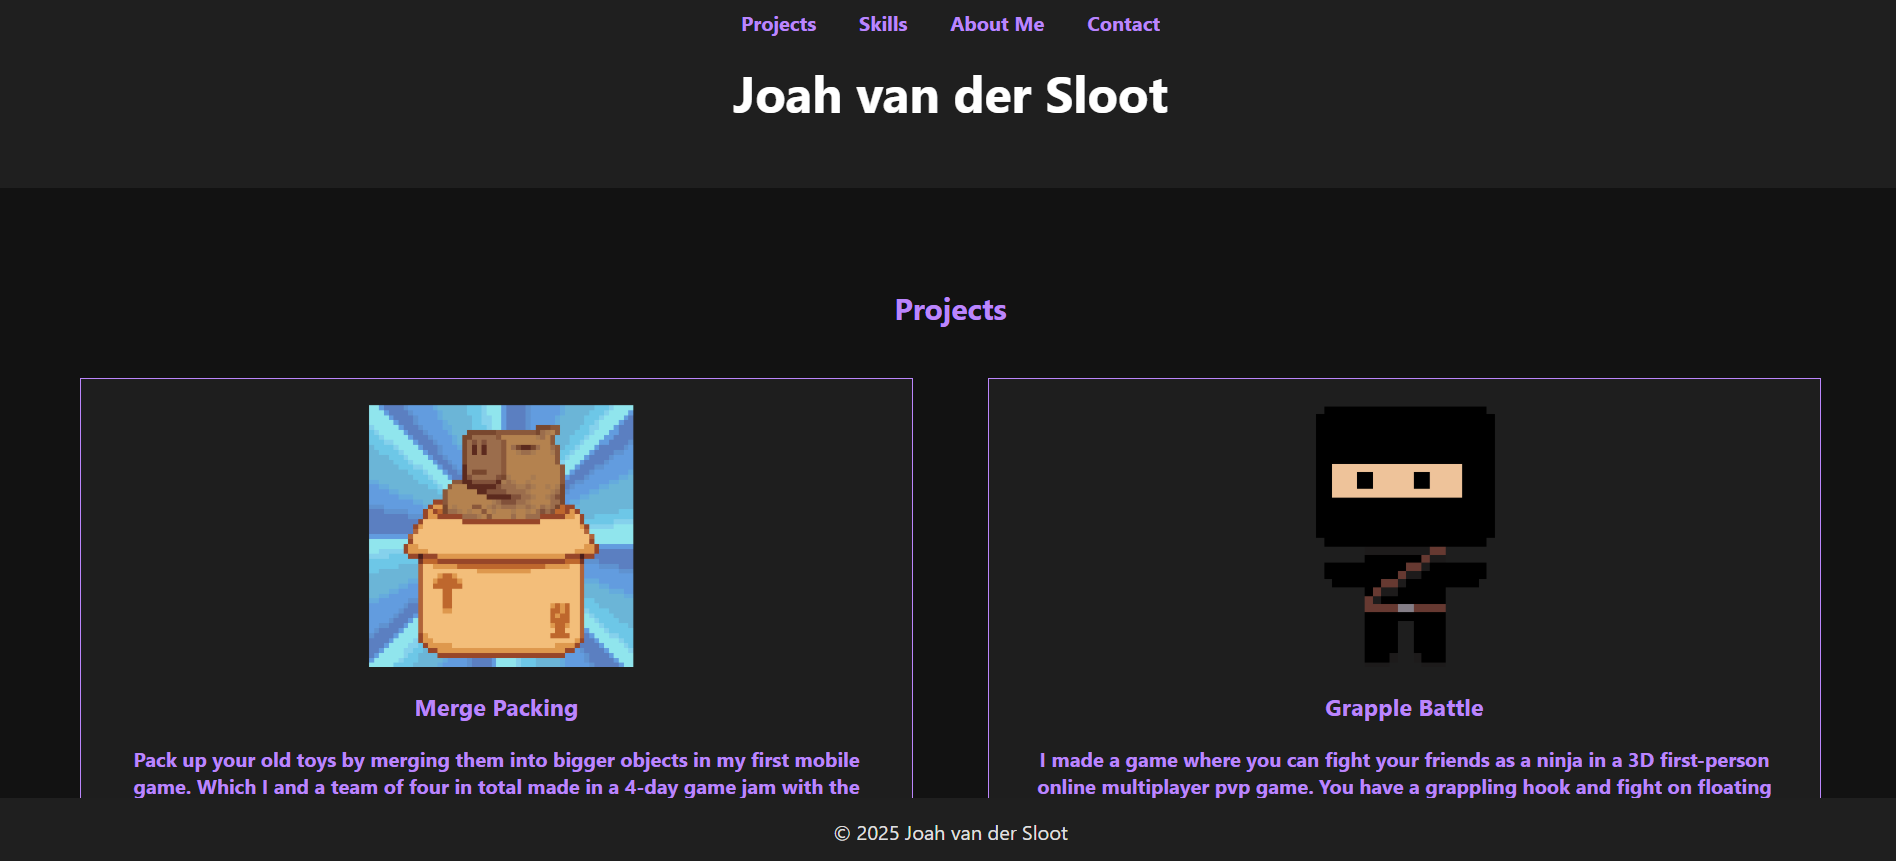
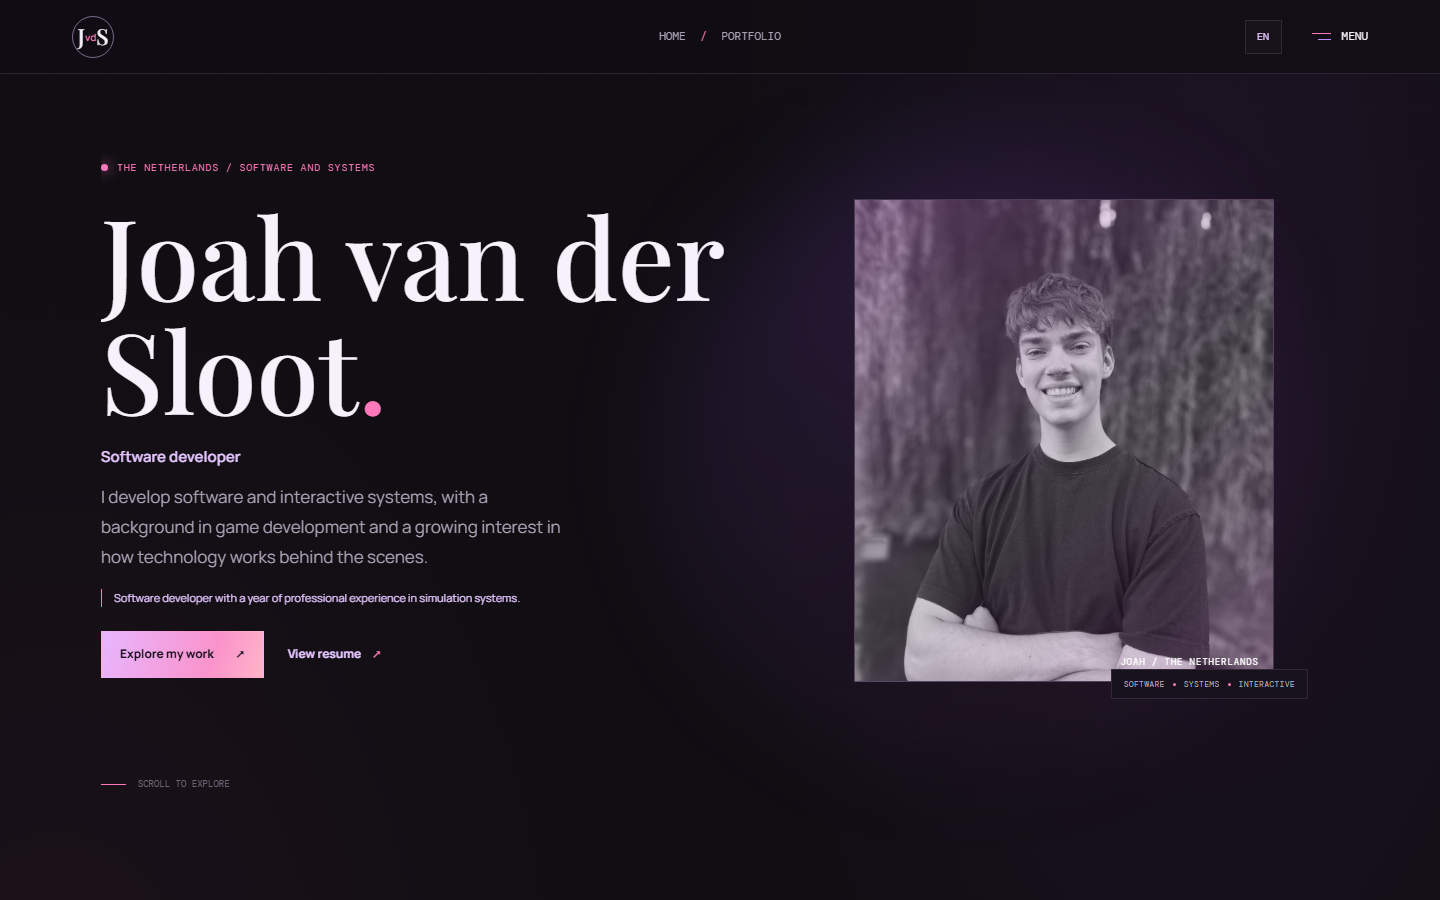
portfolio proj page update

diff --git a/assets/js/portfolio.js b/assets/js/portfolio.js
@@ -65,7 +65,7 @@
         const projectTags = project.tags.length ? `<div class="project-card-tags">${tagList(project.tags)}</div>` : "";
         return `<article class="project-card reveal" style="--delay:${Math.min(index, 8) * 55}ms">
             <a class="project-card-link" href="${escapeHTML(projectLink(project))}" aria-label="${escapeHTML(localized(project, "title"))} / ${escapeHTML(translate("project"))}">
-                <div class="project-card-image">${project.image ? `<img src="${escapeHTML(asset(project.image))}" alt="${escapeHTML(localized(project, "imageAlt"))}" loading="lazy">` : `<span class="project-card-placeholder">${escapeHTML(localized(project, "coverLabel") || localized(project, "title"))}</span>`}<span class="project-year">${escapeHTML(project.year)}</span></div>
+                <div class="project-card-image">${project.image ? `<img src="${escapeHTML(asset(project.image))}" alt="${escapeHTML(localized(project, "imageAlt"))}"${project.pixelCover ? ' class="pixel-art"' : ""} loading="lazy">` : `<span class="project-card-placeholder">${escapeHTML(localized(project, "coverLabel") || localized(project, "title"))}</span>`}<span class="project-year">${escapeHTML(project.year)}</span></div>
                 <div class="project-card-content"><div class="eyebrow">${escapeHTML(categoryLabel(localized(project, "category")))} / ${escapeHTML(localized(project, "date"))}</div><h3>${escapeHTML(localized(project, "title"))}</h3><p>${escapeHTML(localized(project, "summary"))}</p></div>
             </a>${projectTags}
         </article>`;
@@ -165,7 +165,7 @@
         const video = project.video ? `<video class="project-video-element" controls preload="metadata"><source src="${escapeHTML(project.video)}" type="video/mp4"></video>` : project.youtube && window.location.protocol === "file:" ? `<a class="video-fallback" href="${escapeHTML(youtubeLink)}" target="_blank" rel="noreferrer"><img src="${escapeHTML(project.image)}" alt=""><span><strong>${escapeHTML(translate("watchVideo"))}</strong><small>${escapeHTML(translate("openYoutube"))} <b aria-hidden="true">↗</b></small></span></a>` : project.youtube ? `<div class="video-frame"><iframe src="${escapeHTML(project.youtube)}" title="${escapeHTML(title)}" loading="lazy" allow="accelerometer; autoplay; encrypted-media; gyroscope; picture-in-picture" allowfullscreen></iframe></div>` : "";
         const playable = project.embed ? `<section class="detail-section media-section"><details class="playable-details"><summary><span><span class="eyebrow">${escapeHTML(translate("playableBuild"))}</span><strong>${escapeHTML(translate("openPlayable"))}</strong></span><span class="play-toggle" aria-hidden="true">+</span></summary><p>${escapeHTML(translate("optionalEmbed"))}</p><div class="playable-frame"><iframe src="${escapeHTML(project.embed)}" title="${escapeHTML(title)}" loading="lazy" allowfullscreen></iframe></div></details></section>` : "";
         const links = [[translate("play"), project.itch], [translate("source"), project.github]].filter(([, url]) => url).map(([label, url]) => `<a class="button button-secondary" href="${escapeHTML(url)}" target="_blank" rel="noreferrer">${escapeHTML(label)} <span aria-hidden="true">↗</span></a>`).join("");
-        const cover = project.image ? imageButton(project.image, localized(project, "imageAlt"), title, "detail-cover-image") : `<span class="detail-cover-placeholder">${escapeHTML(localized(project, "coverLabel") || title)}</span>`;
+        const cover = project.image ? imageButton(project.image, localized(project, "imageAlt"), title, project.pixelCover ? "detail-cover-image pixel-art" : "detail-cover-image") : `<span class="detail-cover-placeholder">${escapeHTML(localized(project, "coverLabel") || title)}</span>`;
         const showcaseSection = media ? `<section class="detail-section showcase-section"><div class="section-heading"><div><p class="eyebrow">${escapeHTML(translate("selectedDetails"))}</p><h2>${escapeHTML(translate("builtThenPlayed"))}</h2></div><p>${escapeHTML(translate("codeAndMedia"))}</p></div><div class="showcase-grid">${media}</div></section>` : "";
         return `<main class="page-content detail-page"><a class="back-link" href="allProjects.html"><span aria-hidden="true">←</span> ${escapeHTML(translate("backToProjects"))}</a><header class="detail-hero"><div class="detail-hero-copy"><p class="eyebrow">${escapeHTML(categoryLabel(localized(project, "category")))} / ${escapeHTML(localized(project, "date"))}</p><h1>${escapeHTML(title)}<span class="hero-period">.</span></h1><p class="detail-summary">${escapeHTML(localized(project, "summary"))}</p><div class="detail-actions">${links}</div></div><div class="detail-cover">${cover}</div></header><div class="detail-meta">${project.tools.length ? `<div><span>${escapeHTML(translate("builtWith"))}</span><strong>${project.tools.map(escapeHTML).join(" / ")}</strong></div>` : ""}<div><span>${escapeHTML(translate("projectFormat"))}</span><strong>${escapeHTML(localized(project, "duration"))}</strong></div><div><span>${escapeHTML(translate("released"))}</span><strong>${escapeHTML(localized(project, "date"))}</strong></div></div><section class="detail-section overview-grid"><div><p class="eyebrow">${escapeHTML(translate("projectAbout"))}</p><h2>${escapeHTML(translate("insideProject"))}</h2></div><div><p>${escapeHTML(localized(project, "description"))}</p><p>${escapeHTML(localized(project, "contribution"))}</p>${project.tags.length ? `<h3>${escapeHTML(translate("skillsInProject"))}</h3>${tagList(project.tags)}` : ""}</div></section>${video ? `<section class="detail-section media-section"><div class="section-heading"><div><p class="eyebrow">${escapeHTML(translate("inMotion"))}</p><h2>${escapeHTML(translate("seeItPlay"))}</h2></div></div>${video}</section>` : ""}${playable}${showcaseSection}${gallery.length ? `<section class="detail-section gallery-section"><div class="section-heading"><div><p class="eyebrow">${escapeHTML(translate("moreMoments"))}</p><h2>${escapeHTML(translate("fromTheBuild"))}</h2></div></div><div class="screenshot-grid">${gallery.map((src, index) => imageButton(src, `${title} ${index + 1}`, `${title} ${index + 1}`, "screenshot-trigger")).join("")}</div></section>` : ""}<nav class="project-next" aria-label="${escapeHTML(translate("projects"))}"><a href="allProjects.html"><span>${escapeHTML(translate("browseArchive"))}</span><strong>${escapeHTML(translate("moreProjects"))} <span aria-hidden="true">↗</span></strong></a></nav></main>`;
     }

diff --git a/assets/js/portfolio-nl.js b/assets/js/portfolio-nl.js
@@ -158,7 +158,7 @@ window.PORTFOLIO_NL = {
         "space-fighter": { summary: "Een space-shooter met steeds moeilijkere golven en eindbazen.", description: "Vecht tegen ruimteschepen, verzamel punten en upgrades en overleef steeds moeilijkere golven. Elke vijfde golf verschijnt een eindbaas.", contribution: "Een soloproject van vier weken. Ik bouwde het spel en het scorebord; ik ben vooral tevreden over het opslaan en rangschikken van scores.", duration: "4 weken, solo", date: "25 oktober 2024", imageAlt: "Ruimteschip en vijanden in Space Fighter", category: "Game", showcase: [{ title: "Rangschik scores van hoog naar laag" }, { alt: "Gevecht in Space Fighter", caption: "Golven bepalen hoe snel de moeilijkheid oploopt." }, { title: "Toon alleen de hoogste scores" }, { alt: "Eindbaas in Space Fighter", caption: "Elke vijfde golf brengt een eindbaasgevecht." }] },
         "wa-lch": { summary: "Een twin-stick-shooter over een schoonmaakrobot die een verlaten lab verdedigt.", description: "Ruim radioactief afval op, start stroomgeneratoren opnieuw en verdedig je tegen vijandige robots in een verlaten laboratorium. Het team behaalde de tweede plaats in een competitie.", contribution: "Ik maakte vijanden, pickups, schoonmaakmechanieken, interface, menu's, interactieve delen van de map en geluidseffecten. Ook hielp ik met functies voor de speler.", duration: "4 weken, team van 5", date: "27 juni 2024", imageAlt: "Schoonmaakrobot uit WA-LCH", category: "Game", showcase: [{ title: "Wissel vijandgedrag op basis van de speler" }, { alt: "Gameplay van WA-LCH", caption: "Vijanden reageren wanneer de speler begint met schoonmaken." }] },
         slipstream: { summary: "First-person cyberpunk-parkour met een drone op je hielen.", description: "Ren door twee levels op tijd, verzamel checkpoints en blijf uit handen van een achtervolgende drone. Gemaakt tijdens een internationale studentenuitwisseling met een Finse school.", contribution: "Ik maakte de drone, gamemanager, menu's, interface, instellingen en het opslaan en laden ervan, plus het tutoriallevel. Ook bouwde ik een instelbaar vizier.", duration: "5 weken, internationaal team van 5", date: "1 juli 2025", imageAlt: "Cyberpunklevel van Slipstream", category: "Game", showcase: [{ title: "Een klik koppelen aan een kleurtextuur" }, { alt: "Parkourroute in Slipstream", caption: "De route combineert snelheid met checkpoints." }, { title: "Vizierinstellingen toepassen" }, { alt: "Cyberpunkomgeving in Slipstream", caption: "De drone houdt de druk erop tijdens elke run." }] },
-        portfolio: { summary: "Mijn portfolio: mijn eerste webproject, dat ik blijf verbeteren.", description: "De eerste versie maakte ik in mei 2024. Sindsdien werk ik de website bij wanneer ik nieuwe projecten maak en nieuwe webvaardigheden leer.", contribution: "Ik ontwierp en bouwde de website, projectpagina's en gedeelde vormgeving. Deze versie haalt herhaalde inhoud naar bewerkbare project- en vaardigheidsgegevens.", duration: "Doorlopend soloproject", date: "3 mei 2024", imageAlt: "Homepage van de portfolio-website", category: "Web", showcase: [{ title: "Projecten vanuit gegevens tonen" }, { alt: "Portfolio-homepage", caption: "De website toont projecten en vaardigheden uit gedeelde gegevens." }] },
+        portfolio: { summary: "Mijn portfolio: mijn eerste webproject, dat ik blijf verbeteren.", description: "De eerste versie maakte ik in mei 2024. Sindsdien werk ik de website bij wanneer ik nieuwe projecten maak en nieuwe webvaardigheden leer. Inmiddels draait hij zonder framework: één gedeeld script bouwt elke pagina in het Nederlands en Engels op uit gewone JavaScript-gegevensbestanden.", contribution: "Ik ontwierp en bouwde de website, projectpagina's en gedeelde vormgeving. Elk project is een eigen gegevensbestand met een eigen afbeeldingenmap, dus voor een nieuw project is geen nieuwe HTML-pagina nodig. De website heeft ook een afbeeldingenviewer en een downloadbaar pdf-cv.", duration: "Doorlopend soloproject", date: "3 mei 2024", imageAlt: "Homepage van de portfolio-website", category: "Web", showcase: [{ title: "Laad elk project uit een eigen bestand" }, { alt: "Homepage van de portfolio", caption: "De homepage toont projecten, vaardigheden en wie ik ben." }, { title: "Val terug op Engels als een vertaling ontbreekt" }, { alt: "Projectarchief van de portfolio", caption: "Het projectarchief wordt opgebouwd uit de projectbestanden." }, { title: "Code links, afbeeldingen rechts" }, { alt: "Projectpagina met code en screenshots naast elkaar", caption: "Projectpagina's koppelen elk codevoorbeeld aan een screenshot." }, { title: "Rij voor rij de showcase indelen" }, { alt: "Vaardighedenpagina van de portfolio", caption: "Vaardigheden verwijzen terug naar de projecten die ze gebruiken." }] },
         "glory-ranking-website": { title: "GLORY Kickboksranglijst", coverLabel: "GLORY / RANGLIJST", summary: "De webversie van mijn GLORY-kickboksranglijstsysteem.", description: "De huidige websiteversie van mijn GLORY-kickboksranglijstsysteem, na een eerdere app-prototypeversie.", contribution: "Persoonlijk project waarin ik onderzoek hoe de ranglijst op het web kan worden getoond en gebruikt.", duration: "Persoonlijk project", date: "In ontwikkeling", category: "Web" },
         "glory-ranking-app": { title: "Kickboxing Ranking Prototype", coverLabel: "GLORY / APP", summary: "De eerste app-versie van mijn GLORY-kickboksranglijstsysteem.", description: "Een vroeg applicatieprototype voor hetzelfde ranglijstsysteem dat nu als website wordt ontwikkeld.", contribution: "Persoonlijk project. Deze eerste versie legde de basis voor de ranglijst als app.", duration: "Eerste versie", date: "Projectversie 1", category: "Software" },
         "factsheets-generator": { summary: "Een factsheetgenerator die ik tijdens mijn stage bij SimCen Land ontwikkelde.", description: "Factsheets Generator is een van de softwareprojecten waaraan ik werkte tijdens mijn stage softwareontwikkeling bij SimCen Land.", contribution: "Ontwikkeld als onderdeel van mijn stagewerk. Verdere technische details staan hier niet vermeld.", duration: "Stageproject", date: "2025–2026", category: "Software" },

diff --git a/assets/js/projects/portfolio.js b/assets/js/projects/portfolio.js
@@ -1,8 +1,14 @@
 (window.PORTFOLIO_PROJECTS ||= []).push({
     id: "portfolio", page: "project9.html", title: "Portfolio", category: "Web", year: "2024-26", image: "assets/images/projects/portfolio/screenshot-1.png",
-    summary: "My portfolio site: the first web project I built and keep improving.", description: "The first draft was made in May 2024. I have kept updating it alongside new projects and the web skills I have learned.", contribution: "I designed and built the site, its project pages, and the shared styling. This refresh turns the repeated content into editable project and skill records.", tools: ["HTML", "CSS", "JavaScript"], tags: ["html", "css", "javascript", "git", "creative-thinking"], duration: "Ongoing solo project", date: "3 May 2024", imageAlt: "Portfolio website preview", screenshots: ["assets/images/projects/portfolio/screenshot-1.png", "assets/images/projects/portfolio/screenshot-2.png", "assets/images/projects/portfolio/screenshot-3.png"], github: "https://github.com/JoahvanderSloot/Portfolio",
+    summary: "My portfolio site: the first web project I built and keep improving.", description: "The first draft was made in May 2024. I have kept updating it alongside new projects and the web skills I have learned. It now runs without a framework: one shared script renders every page in English and Dutch from plain JavaScript data files.", contribution: "I designed and built the site, its project pages, and the shared styling. Each project is its own data file with its own image folder, so adding a project does not require a new HTML page. The site also includes an image lightbox and a downloadable PDF resume.", tools: ["HTML", "CSS", "JavaScript"], tags: ["html", "css", "javascript", "git", "creative-thinking"], duration: "Ongoing solo project", date: "3 May 2024", imageAlt: "Portfolio website home page", screenshots: ["assets/images/projects/portfolio/screenshot-1.png", "assets/images/projects/portfolio/screenshot-2.png", "assets/images/projects/portfolio/screenshot-3.png", "assets/images/projects/portfolio/screenshot-4.png", "assets/images/projects/portfolio/screenshot-5.png"], github: "https://github.com/JoahvanderSloot/Portfolio",
     showcase: [
-        { type: "code", title: "Render projects from content data", language: "javascript", code: "const projectCards = projects.map((project) => `\n  <article class=\"project-card\">\n    <img src=\"${project.image}\" alt=\"${project.imageAlt}\">\n    <h3>${project.title}</h3>\n    <p>${project.summary}</p>\n  </article>\n`);" },
-        { type: "image", src: "assets/images/projects/portfolio/screenshot-1.png", alt: "Portfolio homepage", caption: "The site presents projects and skills from shared data." }
+        { type: "code", title: "Load every project from its own file", language: "javascript", source: "https://github.com/JoahvanderSloot/Portfolio/blob/main/assets/js/portfolio.js", code: "await Promise.all(data.projectIds.map((id) => new Promise((resolve, reject) => {\n    const script = document.createElement(\"script\");\n    script.src = `assets/js/projects/${id}.js`;\n    script.onload = resolve;\n    script.onerror = () => reject(new Error(`Missing project file: ${id}`));\n    document.head.append(script);\n})));\ndata.projects = data.projectIds.map((id) => window.PORTFOLIO_PROJECTS.find((project) => project.id === id));" },
+        { type: "image", src: "assets/images/projects/portfolio/screenshot-1.png", alt: "Portfolio home page", caption: "The home page highlights projects, skills, and who I am." },
+        { type: "code", title: "Fall back to English when a translation is missing", language: "javascript", source: "https://github.com/JoahvanderSloot/Portfolio/blob/main/assets/js/portfolio.js", code: "const localized = (record, key) => key === \"title\" ? record.title : language === \"nl\"\n    ? translations.projects[record.id]?.[key] || record[key] || \"\"\n    : record[key] || \"\";" },
+        { type: "image", src: "assets/images/projects/portfolio/screenshot-2.png", alt: "Portfolio project archive", caption: "The project archive is built from the project data files." },
+        { type: "code", title: "Keep code left and images right", language: "javascript", source: "https://github.com/JoahvanderSloot/Portfolio/blob/main/assets/js/portfolio.js", code: "const codeEntries = entries.filter(({ item }) => item.type !== \"image\");\nconst imageEntries = entries.filter(({ item }) => item.type === \"image\");\nconst rowCount = Math.max(codeEntries.length, imageEntries.length);\nconst media = Array.from({ length: rowCount }, (_, row) => {\n    const code = codeEntries[row];\n    const image = imageEntries[row];\n    return `<div class=\"showcase-row\">${code ? showcaseHTML(code.item, code.index) : \"<div></div>\"}${image ? showcaseHTML(image.item, image.index) : \"\"}</div>`;\n}).join(\"\");" },
+        { type: "image", src: "assets/images/projects/portfolio/screenshot-3.png", alt: "A project page with code and screenshots side by side", caption: "Project pages pair each code excerpt with a screenshot." },
+        { type: "code", title: "Lay out each showcase row", language: "css", source: "https://github.com/JoahvanderSloot/Portfolio/blob/main/assets/css/portfolio.css", code: ".showcase-row { display: grid; grid-template-columns: minmax(0, 1.15fr) minmax(0, .85fr); align-items: start; gap: 17px; }\n.showcase-row > * { min-width: 0; }\n.showcase-row .code-panel { order: 1; }\n.showcase-row .showcase-image { order: 2; }" },
+        { type: "image", src: "assets/images/projects/portfolio/screenshot-4.png", alt: "Portfolio skills page", caption: "Skills link back to the projects that use them." }
     ]
 });

diff --git a/assets/js/projects/merge-packing.js b/assets/js/projects/merge-packing.js
@@ -1,5 +1,5 @@
 (window.PORTFOLIO_PROJECTS ||= []).push({
-    id: "merge-packing", page: "project1.html", title: "Merge Packing", category: "Game", year: "2025", image: "assets/images/projects/merge-packing/menu.png",
+    id: "merge-packing", page: "project1.html", title: "Merge Packing", category: "Game", year: "2025", image: "assets/images/projects/merge-packing/cover.png", pixelCover: true,
     summary: "A mobile merge game made in a four-day jam with the theme 'Instantly Hooked.'", description: "Drop toys into a box and merge matching items into larger ones. We took inspiration from the immediately rewarding loops of addictive mobile games: each merge earns points, while packing peanuts gradually fill the box. Merge the biggest toys to clear the peanuts and keep going.", contribution: "I built the game manager, game loop, score and high-score flow, UI, and menus. I also helped with item and merge behavior.", tools: ["Unity", "C#", "Photoshop"], tags: ["unity", "csharp", "gameplay", "ui", "teamwork", "creative-thinking"], duration: "4 days, 4-person team", date: "9 May 2025", imageAlt: "Merge Packing gameplay", video: "assets/images/projects/merge-packing/video.mp4", screenshots: ["assets/images/projects/merge-packing/screenshot-1.jpg", "assets/images/projects/merge-packing/menu.png", "assets/images/projects/merge-packing/next-item.png"], itch: "https://joahvds.itch.io/merge-packing", embed: "https://itch.io/embed-upload/13820968?color=ffffff", github: "https://github.com/JoahvanderSloot/Packing-Merge",
     showcase: [
         { type: "code", title: "Play a named sound with its saved settings", language: "csharp", source: "https://github.com/JoahvanderSloot/Packing-Merge/blob/main/Assets/_Project/Dev/Scripts/AudioManager.cs", code: "public void Play(string sound)\n{\n    Sound clip = Array.Find(m_Sounds, item => item.m_Name == sound);\n    if (clip == null) return;\n\n    clip.m_Source.volume = clip.m_Volume *\n        (1f + Random.Range(-clip.m_VolumeVariance / 2f,\n                            clip.m_VolumeVariance / 2f));\n    clip.m_Source.pitch = clip.m_Pitch *\n        (1f + Random.Range(-clip.m_PitchVariance / 2f,\n                            clip.m_PitchVariance / 2f));\n\n    if ((!clip.m_Music && m_Settings.Audio) ||\n        (clip.m_Music && m_Settings.Music))\n        clip.m_Source.Play();\n}" },

diff --git a/assets/css/portfolio.css b/assets/css/portfolio.css
@@ -315,6 +315,7 @@ h1, h2, h3, p { margin-top: 0; }
 .detail-cover { position: relative; aspect-ratio: 1.5; overflow: hidden; border: 1px solid var(--line); background: var(--panel); }
 .detail-cover::after { position: absolute; inset: 0; background: linear-gradient(130deg, rgba(178, 97, 210, .17), transparent 55%, rgba(241, 113, 171, .08)); content: ''; pointer-events: none; }
 .detail-cover img { width: 100%; height: 100%; display: block; object-fit: cover; }
+.pixel-art, .pixel-art img { image-rendering: pixelated; }
 .detail-cover-placeholder { display: grid; width: 100%; height: 100%; place-items: center; padding: 30px; background: radial-gradient(ellipse at 75% 20%, rgba(255,120,186,.2), transparent 36%), linear-gradient(145deg, #33263e, #18141d 66%, #2b1a29); color: var(--lilac); font: 13px var(--mono); text-align: center; text-transform: uppercase; }
 .detail-meta { display: grid; grid-template-columns: repeat(auto-fit, minmax(160px, 1fr)); border-block: 1px solid var(--line); }
 .detail-meta > div { display: grid; gap: 5px; padding: 17px 15px; border-right: 1px solid var(--line); }
@@ -365,6 +366,8 @@ h1, h2, h3, p { margin-top: 0; }
 .code-panel pre { max-height: 390px; overflow: auto; margin: 0; padding: 17px 15px; color: #e2d8ed; background: transparent; text-align: left; tab-size: 4; }
 .code-panel code { color: inherit; font: 11px/1.75 var(--mono); white-space: pre; }
 .code-panel > p { margin: 0; padding: 8px 13px; border-top: 1px solid var(--line); color: var(--dim); font: 9px var(--mono); text-transform: uppercase; }
+.code-panel .source-link { display: block; padding: 9px 13px; border-top: 1px solid var(--line); color: var(--lilac); font: 10px var(--mono); text-decoration: none; }
+.code-panel .source-link:hover { color: var(--pink); }
 .showcase-image { min-width: 0; margin: 0; }
 .image-view-trigger { display: grid; width: 100%; min-width: 0; place-items: center; overflow: hidden; padding: 0; border: 1px solid var(--line); color: inherit; background: #100d14; cursor: zoom-in; }
 .showcase-image .image-view-trigger { aspect-ratio: 1.5; }
